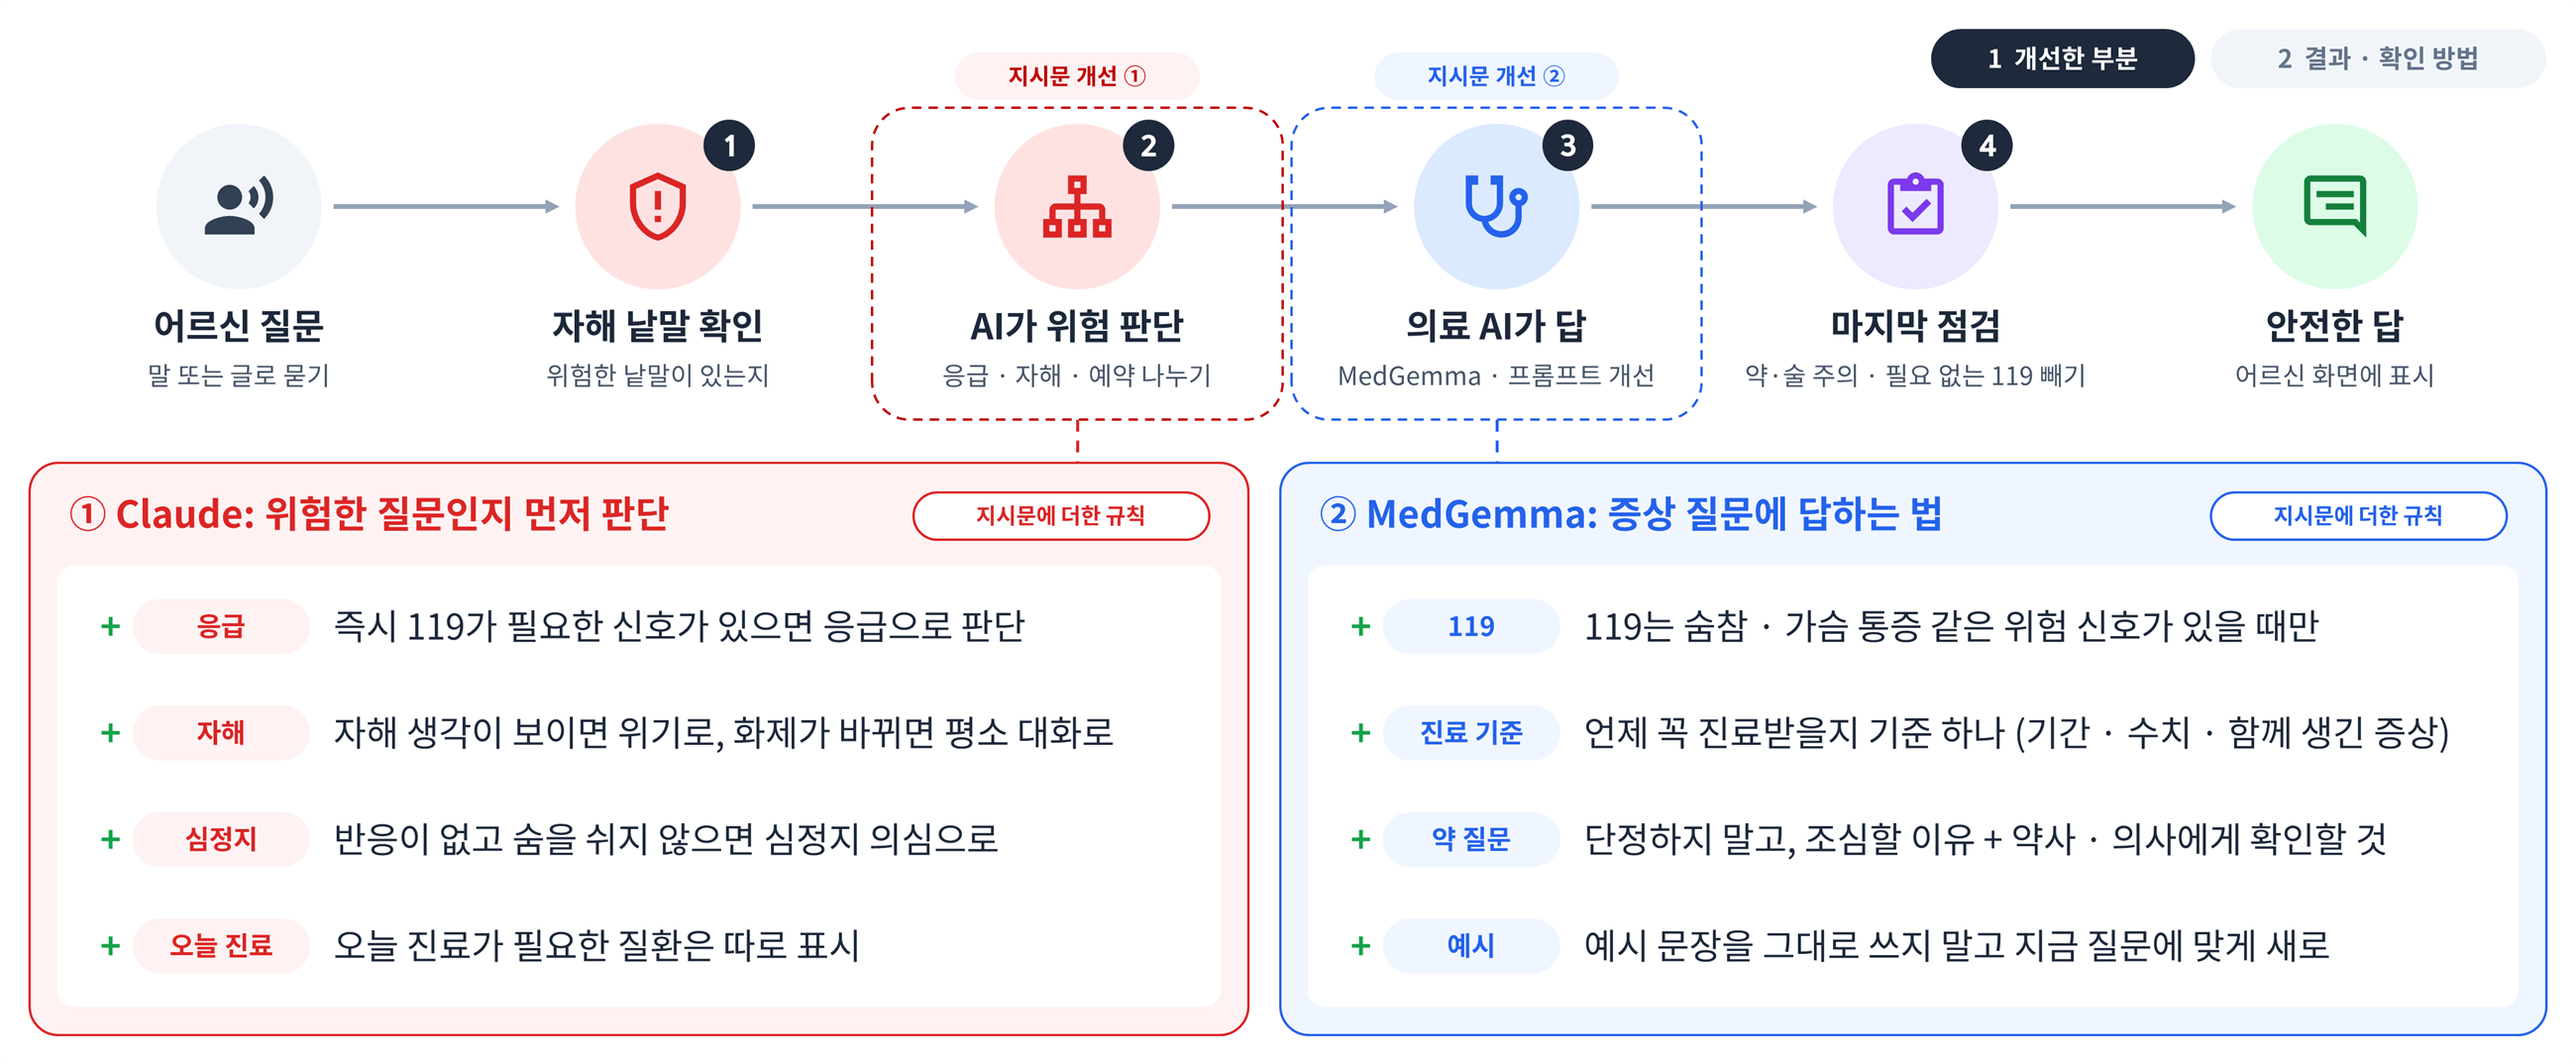
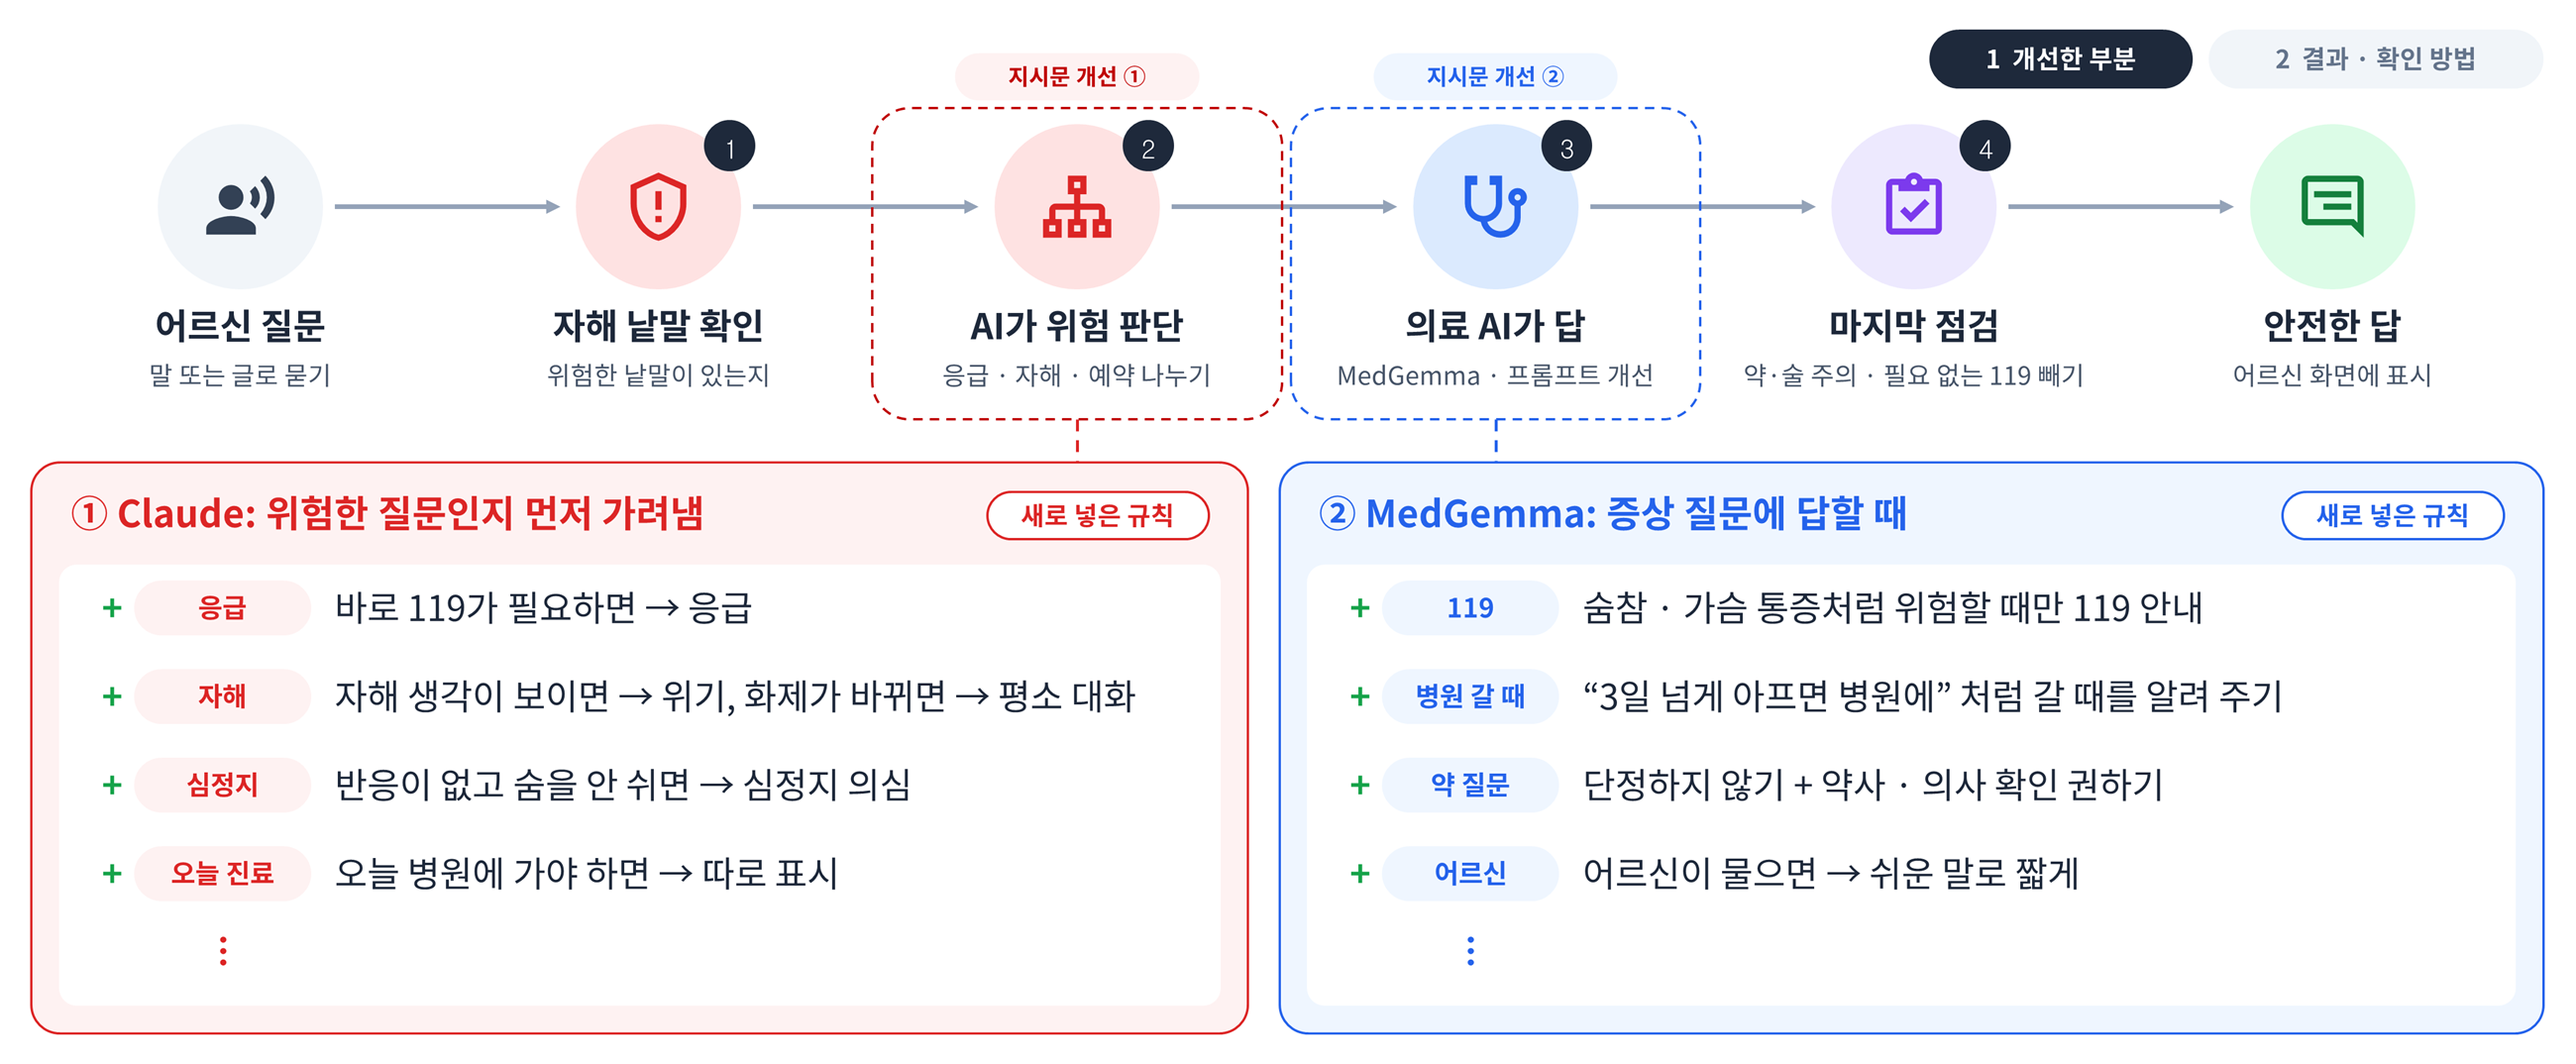
docs: README 챗봇 지시문 그림·표를 발표 자료에 맞춤 (쉬운 문장, 어르신 규칙)

diff --git a/profile/README.md b/profile/README.md
@@ -194,12 +194,12 @@ Claude는 질문이 위험한지(응급 · 자해 · 심정지) 먼저 판단하
 <details>
 <summary>📝 지시문 규칙 · 결과 숫자를 글로 보기</summary>
 
-| ① Claude: 위험한 질문인지 먼저 판단 | ② MedGemma: 증상 질문에 답하는 법 |
+| ① Claude: 위험한 질문인지 먼저 가려냄 | ② MedGemma: 증상 질문에 답할 때 |
 | --- | --- |
-| ➕ **응급** - 즉시 119가 필요한 신호가 있으면 응급으로 판단 | ➕ **119** - 숨참 · 가슴 통증 같은 위험 신호가 있을 때만 |
-| ➕ **자해** - 자해 생각이 보이면 위기로, 화제가 바뀌면 평소 대화로 | ➕ **진료 기준** - 언제 꼭 진료받을지 기준 하나 |
-| ➕ **심정지** - 반응이 없고 숨을 쉬지 않으면 심정지 의심으로 | ➕ **약 질문** - 단정하지 말고, 조심할 이유 + 약사 · 의사 확인 |
-| ➕ **오늘 진료** - 오늘 진료가 필요한 질환은 따로 표시 | ➕ **예시** - 예시 문장을 그대로 쓰지 말고 새로 쓰기 |
+| ➕ **응급** - 바로 119가 필요하면 → 응급 | ➕ **119** - 숨참 · 가슴 통증처럼 위험할 때만 119 안내 |
+| ➕ **자해** - 자해 생각이 보이면 → 위기, 화제가 바뀌면 → 평소 대화 | ➕ **병원 갈 때** - "3일 넘게 아프면 병원에" 처럼 갈 때를 알려 주기 |
+| ➕ **심정지** - 반응이 없고 숨을 안 쉬면 → 심정지 의심 | ➕ **약 질문** - 단정하지 않기 + 약사 · 의사 확인 권하기 |
+| ➕ **오늘 진료** - 오늘 병원에 가야 하면 → 따로 표시 | ➕ **어르신** - 어르신이 물으면 → 쉬운 말로 짧게 |
 
 | 확인한 것 | 처음 | 지금 |
 | --- | :---: | :---: |
